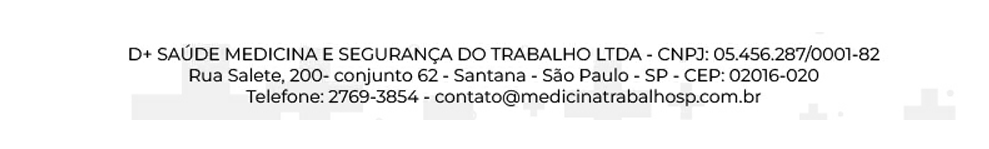
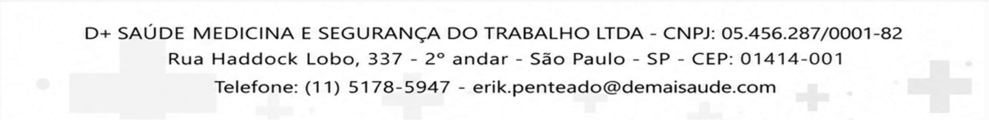
fixing variables on contratoCredenciada

Changed region(s): [[0.0607, 0.225, 0.91, 0.575], [0.2123, 0.6, 0.7887, 0.8]]

diff --git a/routes/gerarPdfRoute.js b/routes/gerarPdfRoute.js
@@ -774,10 +774,10 @@ router.post('/gerar-pdf', async (req, res) => {
       dataPrimeiroPagamento: dados.campos?.dataPrimeiroPagamento || "",
 
       //CONTRATO CREDENCIADA
-      nomeVendedor: dados.witnessSigner?.nomeVendedor || "",
-      cpfVendedorSigner: dados.witnessSigner?.cpfVendedorSigner || "",
-      nomeWitnessSigner2: dados.witnessSigner2?.nomeWitnessSigner || "",
-      cpfWitnessSigner2: dados.witnessSigner2?.cpfWitnessSigner || ""
+      nomeVendedor: dados.vendedorSigner?.nomeVendedor || "",
+      cpfVendedorSigner: dados.vendedorSigner?.cpfVendedorSigner || "",
+      nomeWitnessSigner2: dados.witnessSigner?.nomeWitnessSigner || "",
+      cpfWitnessSigner2: dados.witnessSigner?.cpfWitnessSigner || ""
 
     };
 
